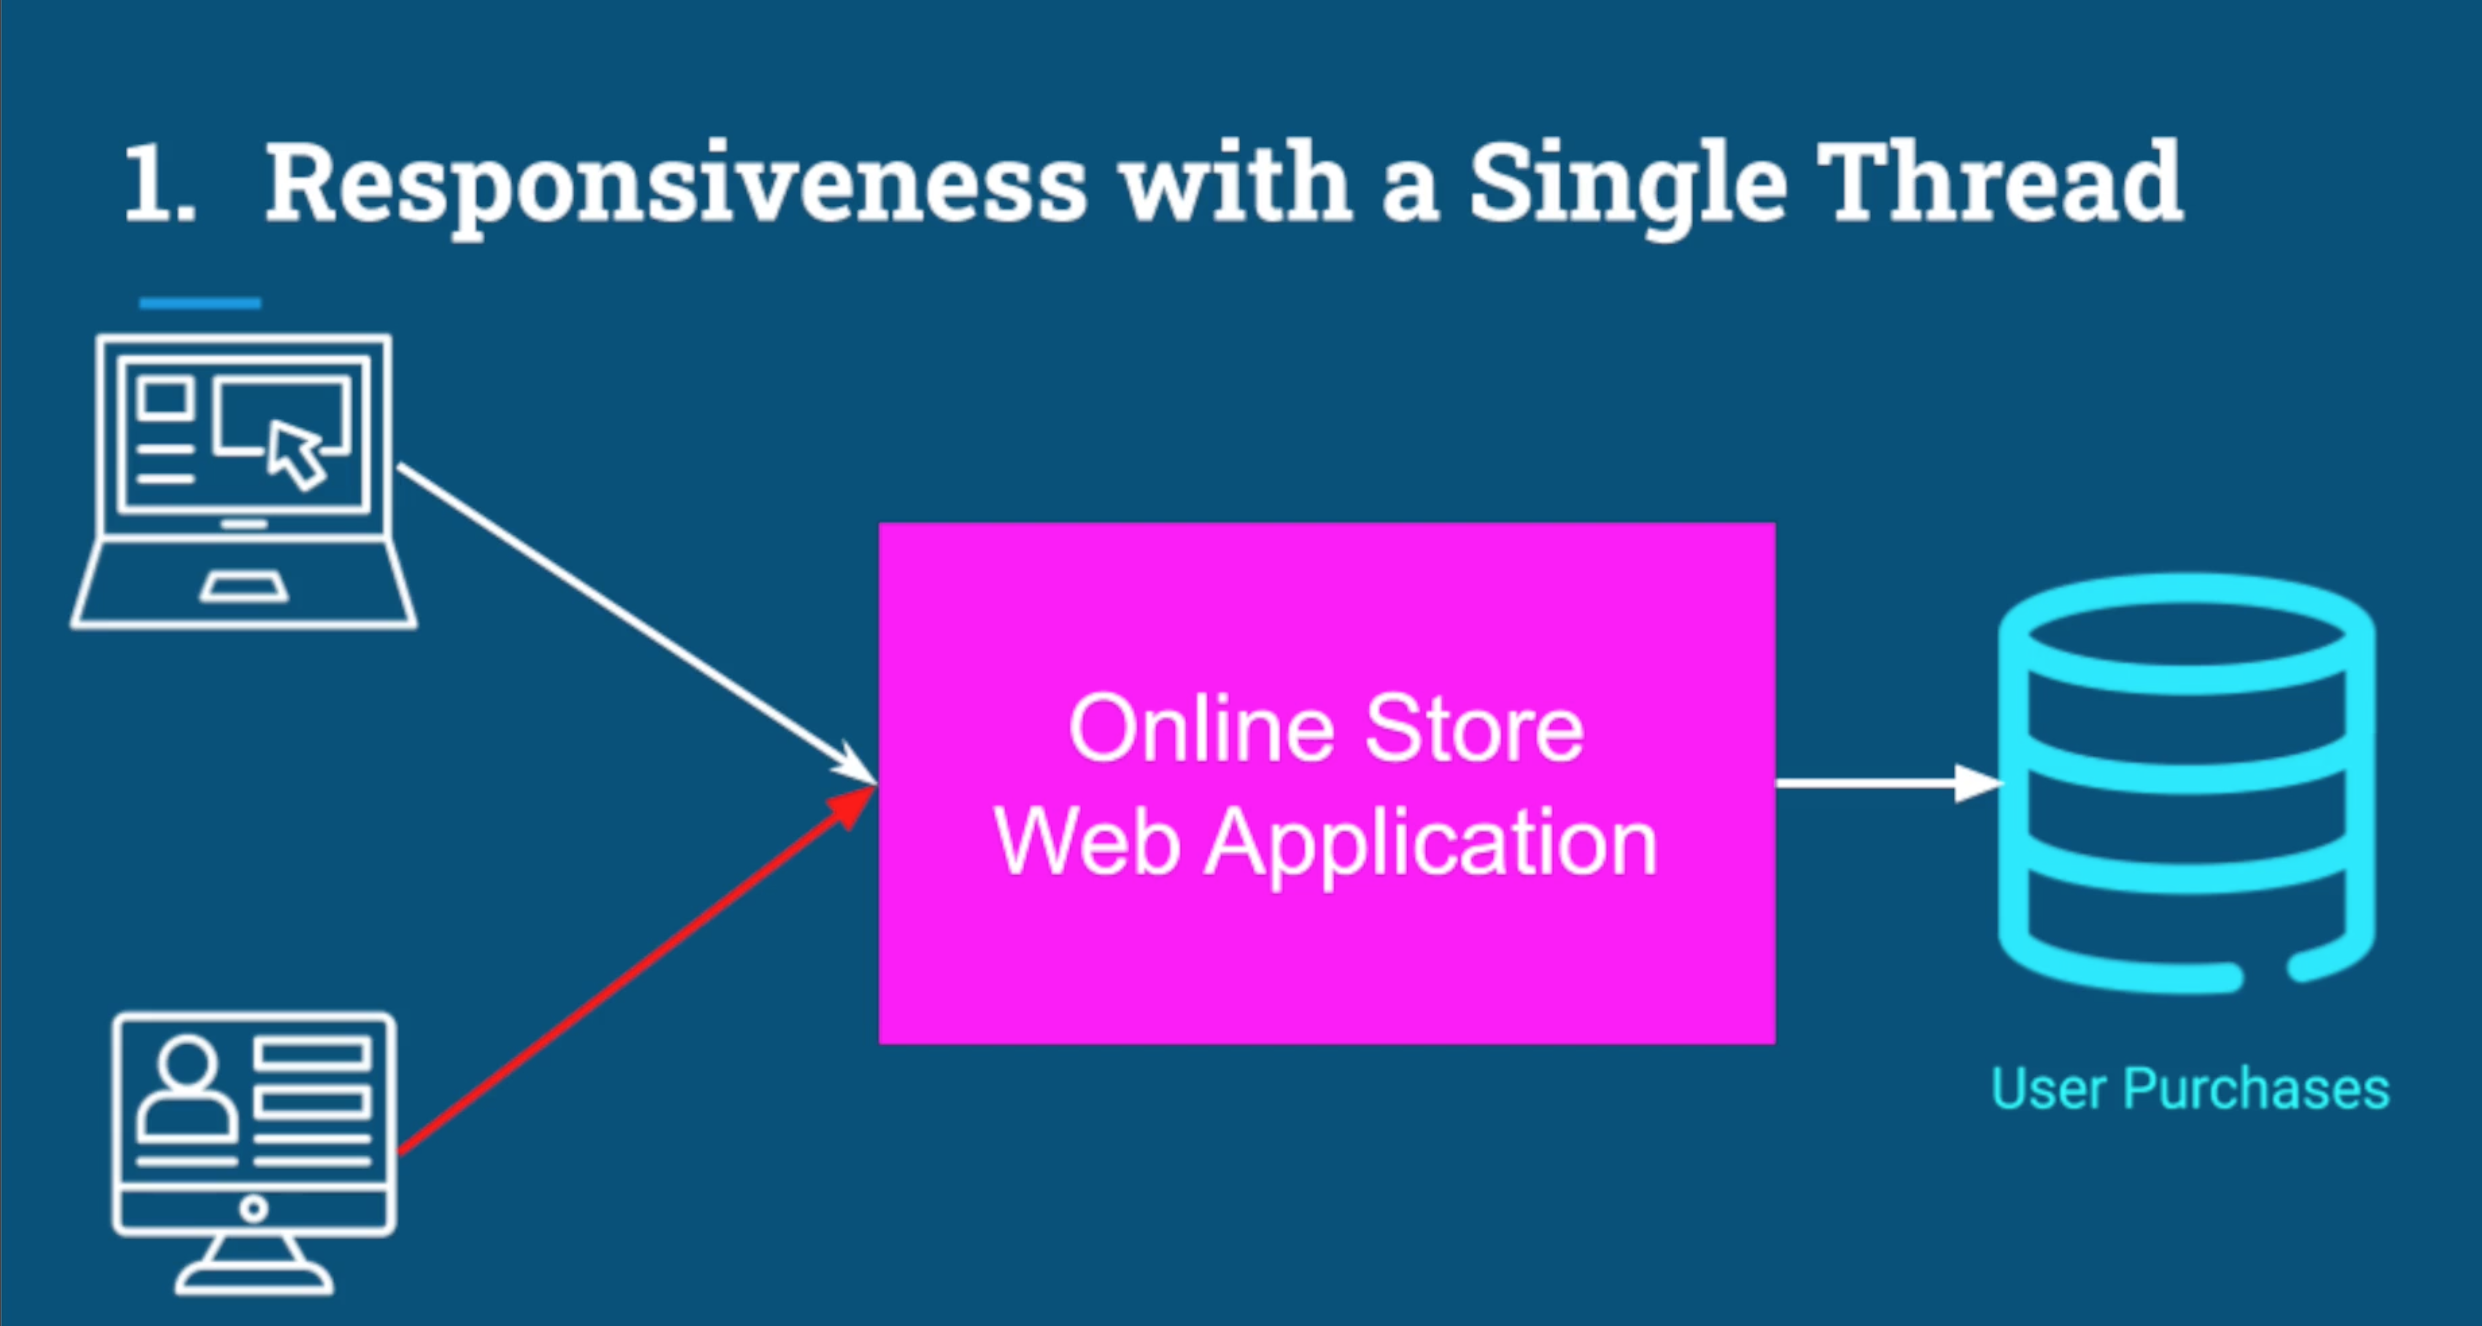
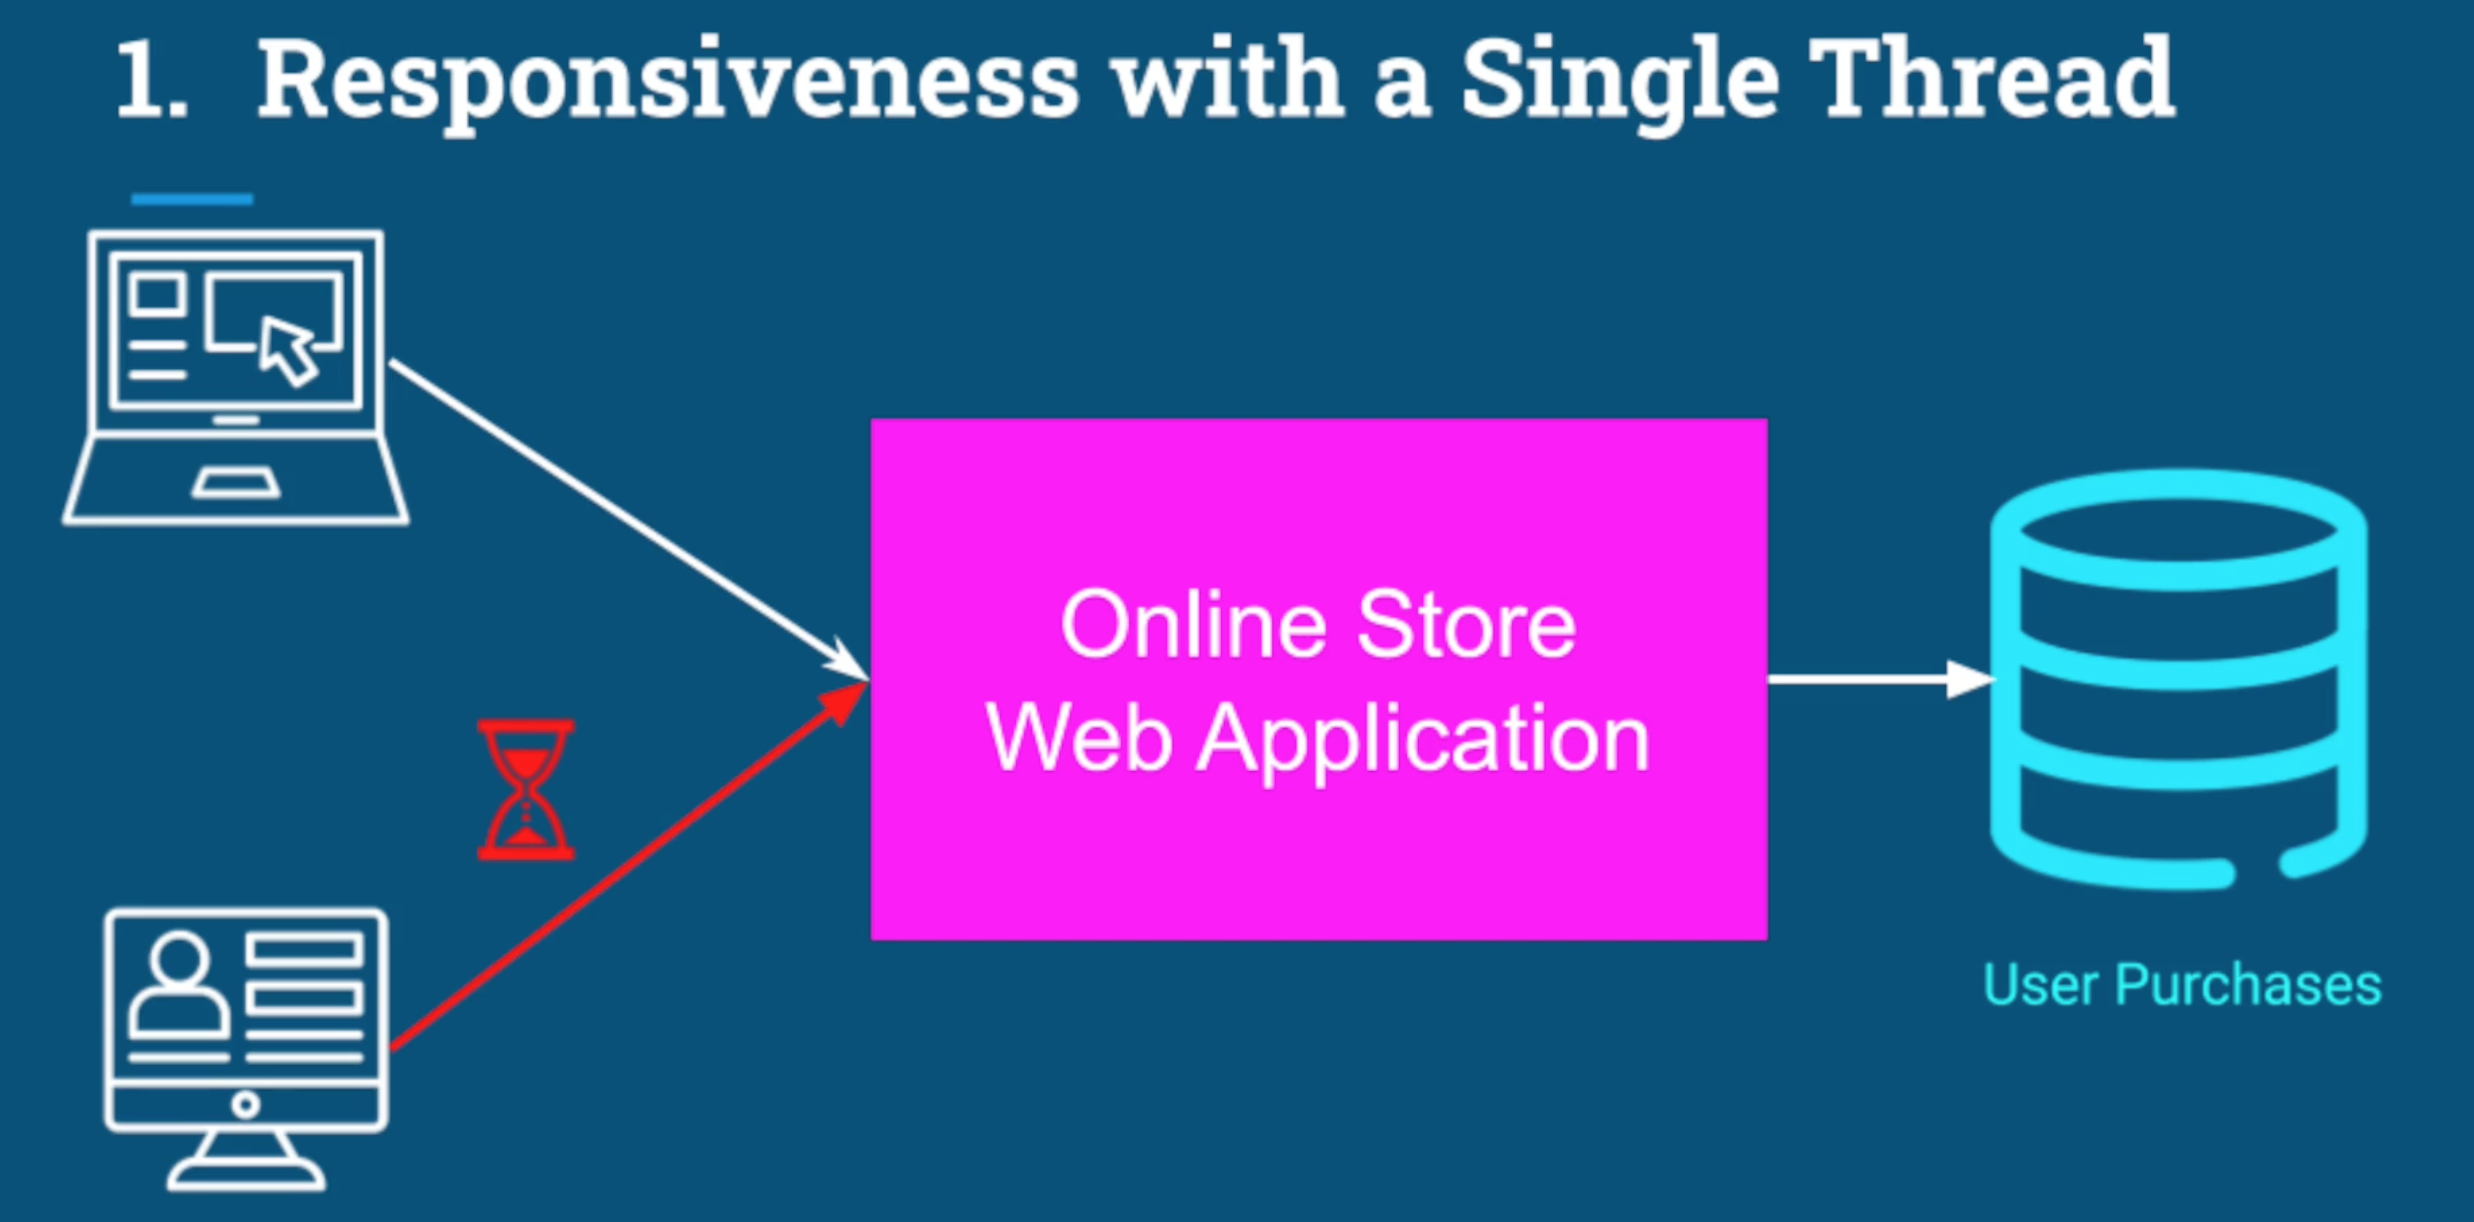
Add content

Changed region(s): [[0.0, 0.0311, 0.9026, 0.9951], [0.7158, 0.3732, 0.9648, 0.8396]]

diff --git a/Section 1 - Introduction/Motivation & Operating Systems Fundamentals - Part 1.md b/Section 1 - Introduction/Motivation & Operating Systems Fundamentals - Part 1.md
@@ -15,3 +15,9 @@ These are all examples of poor responsiveness, which we would like to avoid if w
 Suppose we have an online store web publication that serves thousands of users. The application stores all information about each user's purchases in a database. If one user makes a large purchase of multiple items, which results in a long operation in the database and in the same time, another user is desperate to complete his purchase. That second user will not get any response until the web app is done in responding to the first request.
 
 ![](https://github.com/zaedulislam/Java-Multithreading-Concurrency-Performance-Optimization/blob/main/images/image_1.png)
+
+
+### Responsiveness with Multithreading
+With multithreading, we could actually serve multiple users simultaneously, but serving each request on a different thread.
+![](https://github.com/zaedulislam/Java-Multithreading-Concurrency-Performance-Optimization/blob/main/images/image_2.png)
+
